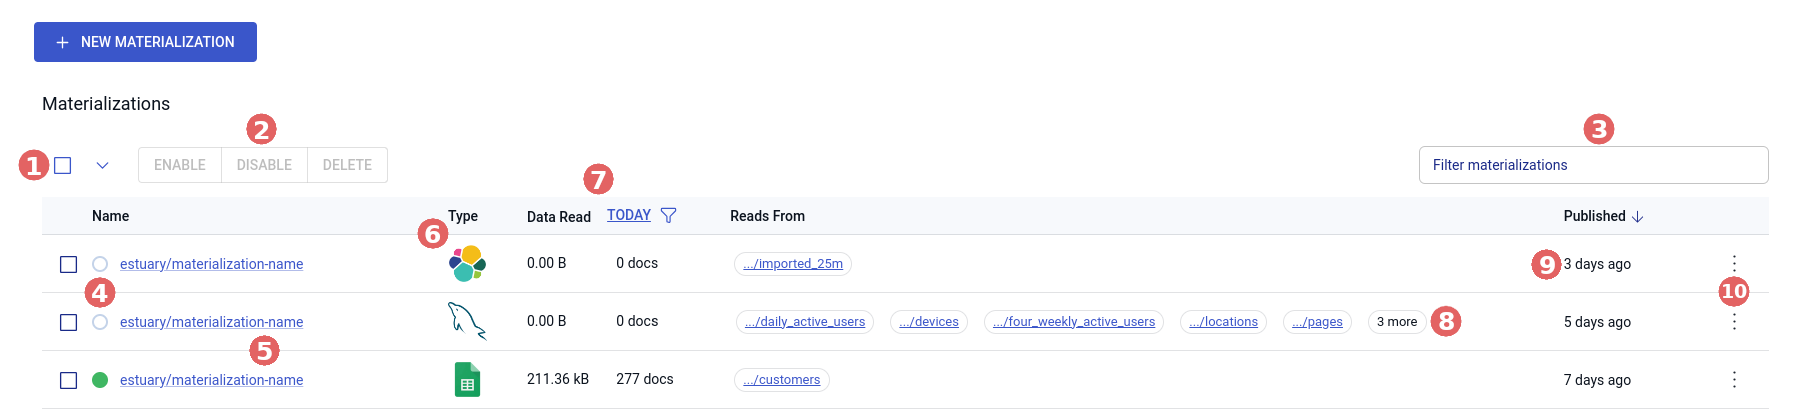
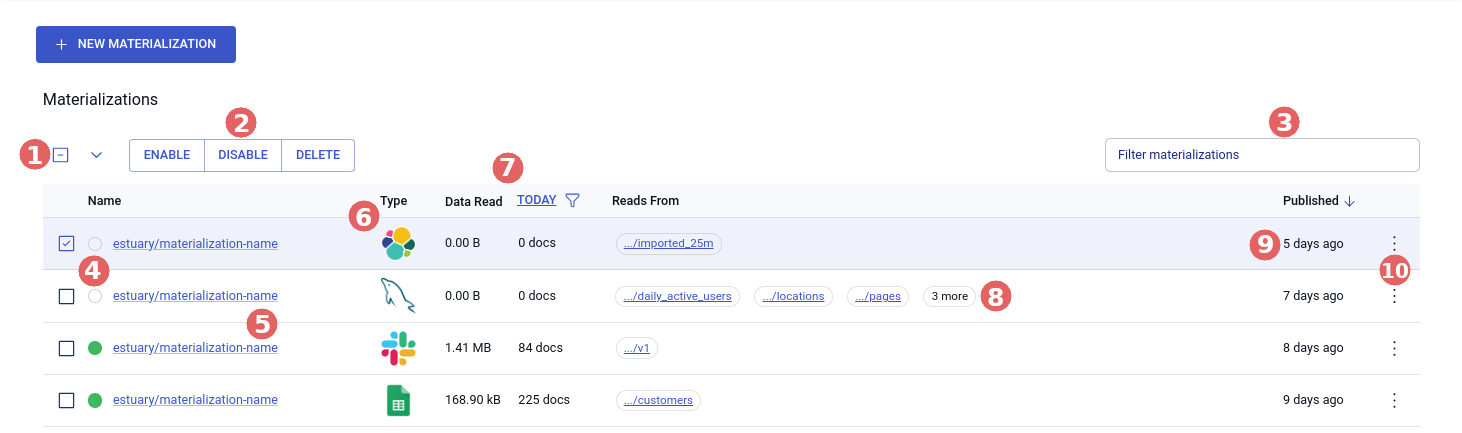
Updating images and adding collections page details for new table image

diff --git a/site/docs/concepts/web-app.md b/site/docs/concepts/web-app.md
@@ -98,7 +98,7 @@ Note that the time intervals are in UTC.
 
 **9:** Associated collections. The **Writes to** column shows all the collections to which the capture writes data. For captures with a large number of collections, there is a chip stating how many collections are hidden. Clicking on this will all you to hover over this column and scroll to view the full list. These are also links to the details page of the collection.
 
-**10:** Publish time. Hover over this value to see the exact UTC time the capture was first published.
+**10:** Publish time. Hover over this value to see the exact UTC time the capture was last published.
 
 **11:** Options. Click to open the menu to **Edit Specification**.
 
@@ -134,7 +134,13 @@ This can help you verify that collection data was captured as expected and that 
 
 ![](<./webapp-images/collections-page.png>)
 
-**1:** Status indicator. If the collection does not contain a [derivation](./README.md#derivations), the indicator should always show green, and hover text will say "Collection."
+**1:** Select all or deselect all.
+
+**2:** Enable, Disable, and Delete buttons. These actions will be applied to the selected table rows. Choose **Disable** to temporarily pause the flow of data, **Enable** to resume, and **Delete** to permanently remove the collection(s).
+
+**3:** Filter collections by name. Type a catalog prefix, unique collection name to return collections that match your query.
+
+**4:** Status indicator. If the collection does not contain a [derivation](./README.md#derivations), the indicator should always show green, and hover text will say "Collection."
 In the event that the server cannot be reached, the indicator will show "Unknown" status (black in light mode and white in dark mode).
 
   If the collection contains a derivation, the status of the derivation's primary task [shard](./advanced/shards.md) will be indicated:
@@ -145,18 +151,14 @@ In the event that the server cannot be reached, the indicator will show "Unknown
   * **Disabled (Hollow circle)**: The derivation is disabled.
   * **Unknown (Black when app is in light mode; white when app is in dark mode)**: The web app is unable to determine shard status. Usually, this is due to a temporary connection error.
 
-**2:** Collection [statistics](./advanced/logs-stats.md#statistics). The **Data Written** column shows the total amount of data, in bytes and in [documents](./collections.md#documents),
+**5:** Collection name. The full name is shown, including all [prefixes](./catalogs.md#namespace). It is also a link to the [details page](#collection-details-page) of the collection.
+
+**6:** Collection [statistics](./advanced/logs-stats.md#statistics). The **Data Written** column shows the total amount of data, in bytes and in [documents](./collections.md#documents),
 that has been written to each collection from its associated capture or derivation within a configurable time interval.
 Click the time interval in the header to select from **Today**, **Yesterday**, **This Week**, **Last Week**, **This Month**, or **Last Month**.
 Note that the time intervals are in UTC.
 
-**3:** To reveal the **Specification** and **Data Preview** sections, expand **Details** next to a collection name.
-
-**4:** The **Specification** section shows the collection specification as JSON in a read-only editor.
-(If you need to modify a collection, edit the [capture](#editing-captures) that it came from.)
-
-**5:** The **Data Preview** section shows a sample of collection [documents](./collections.md#documents): the individual JSON files that comprise the collection.
-Documents are organized by their collection key value. Click a key from the list to view its document.
+**7:** Publish time. Hover over this value to see the exact UTC time the collection was last published.
 
 ## Materializations page
 
@@ -197,7 +199,7 @@ Note that the time intervals are in UTC.
 
 **8:** Associated collections. The **Reads from** column shows all the collections from which the materialization reads data. For materializations with a large number of collections, there is a chip stating how many collections are hidden. Clicking on this will all you to hover over this column and scroll to view the full list. These are also links to the details page of the collection.
 
-**9:** Publish time. Hover over this value to see the exact UTC time the materialization was first published.
+**9:** Publish time. Hover over this value to see the exact UTC time the materialization was last published.
 
 **10:** Options. Click to open the menu to **Edit Specification**.
 
